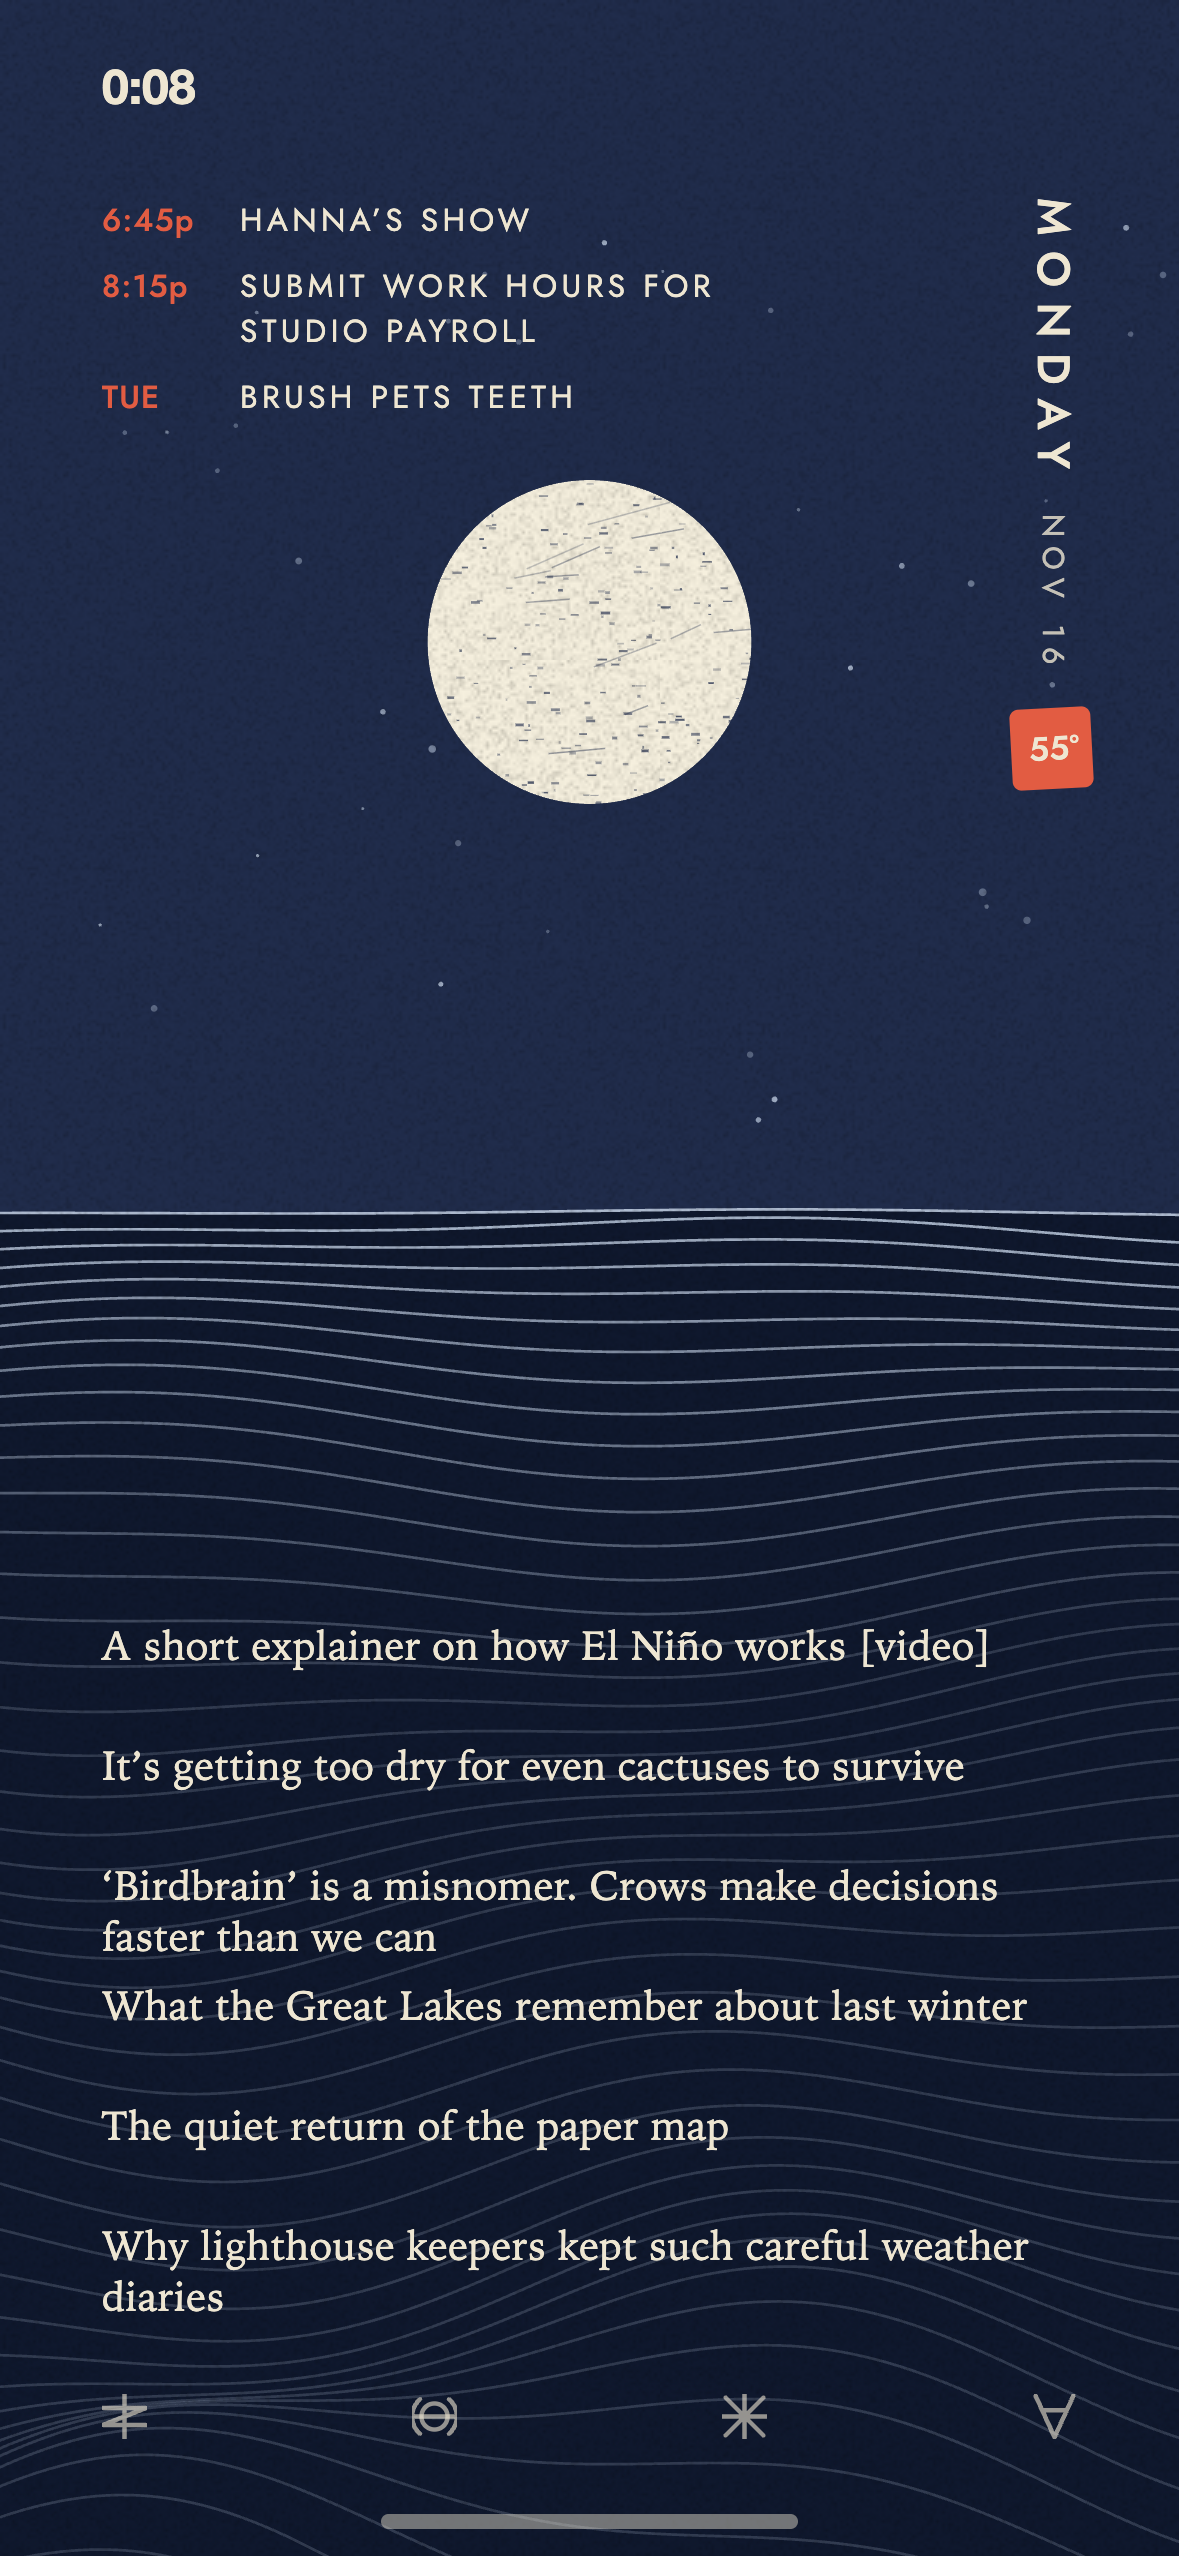
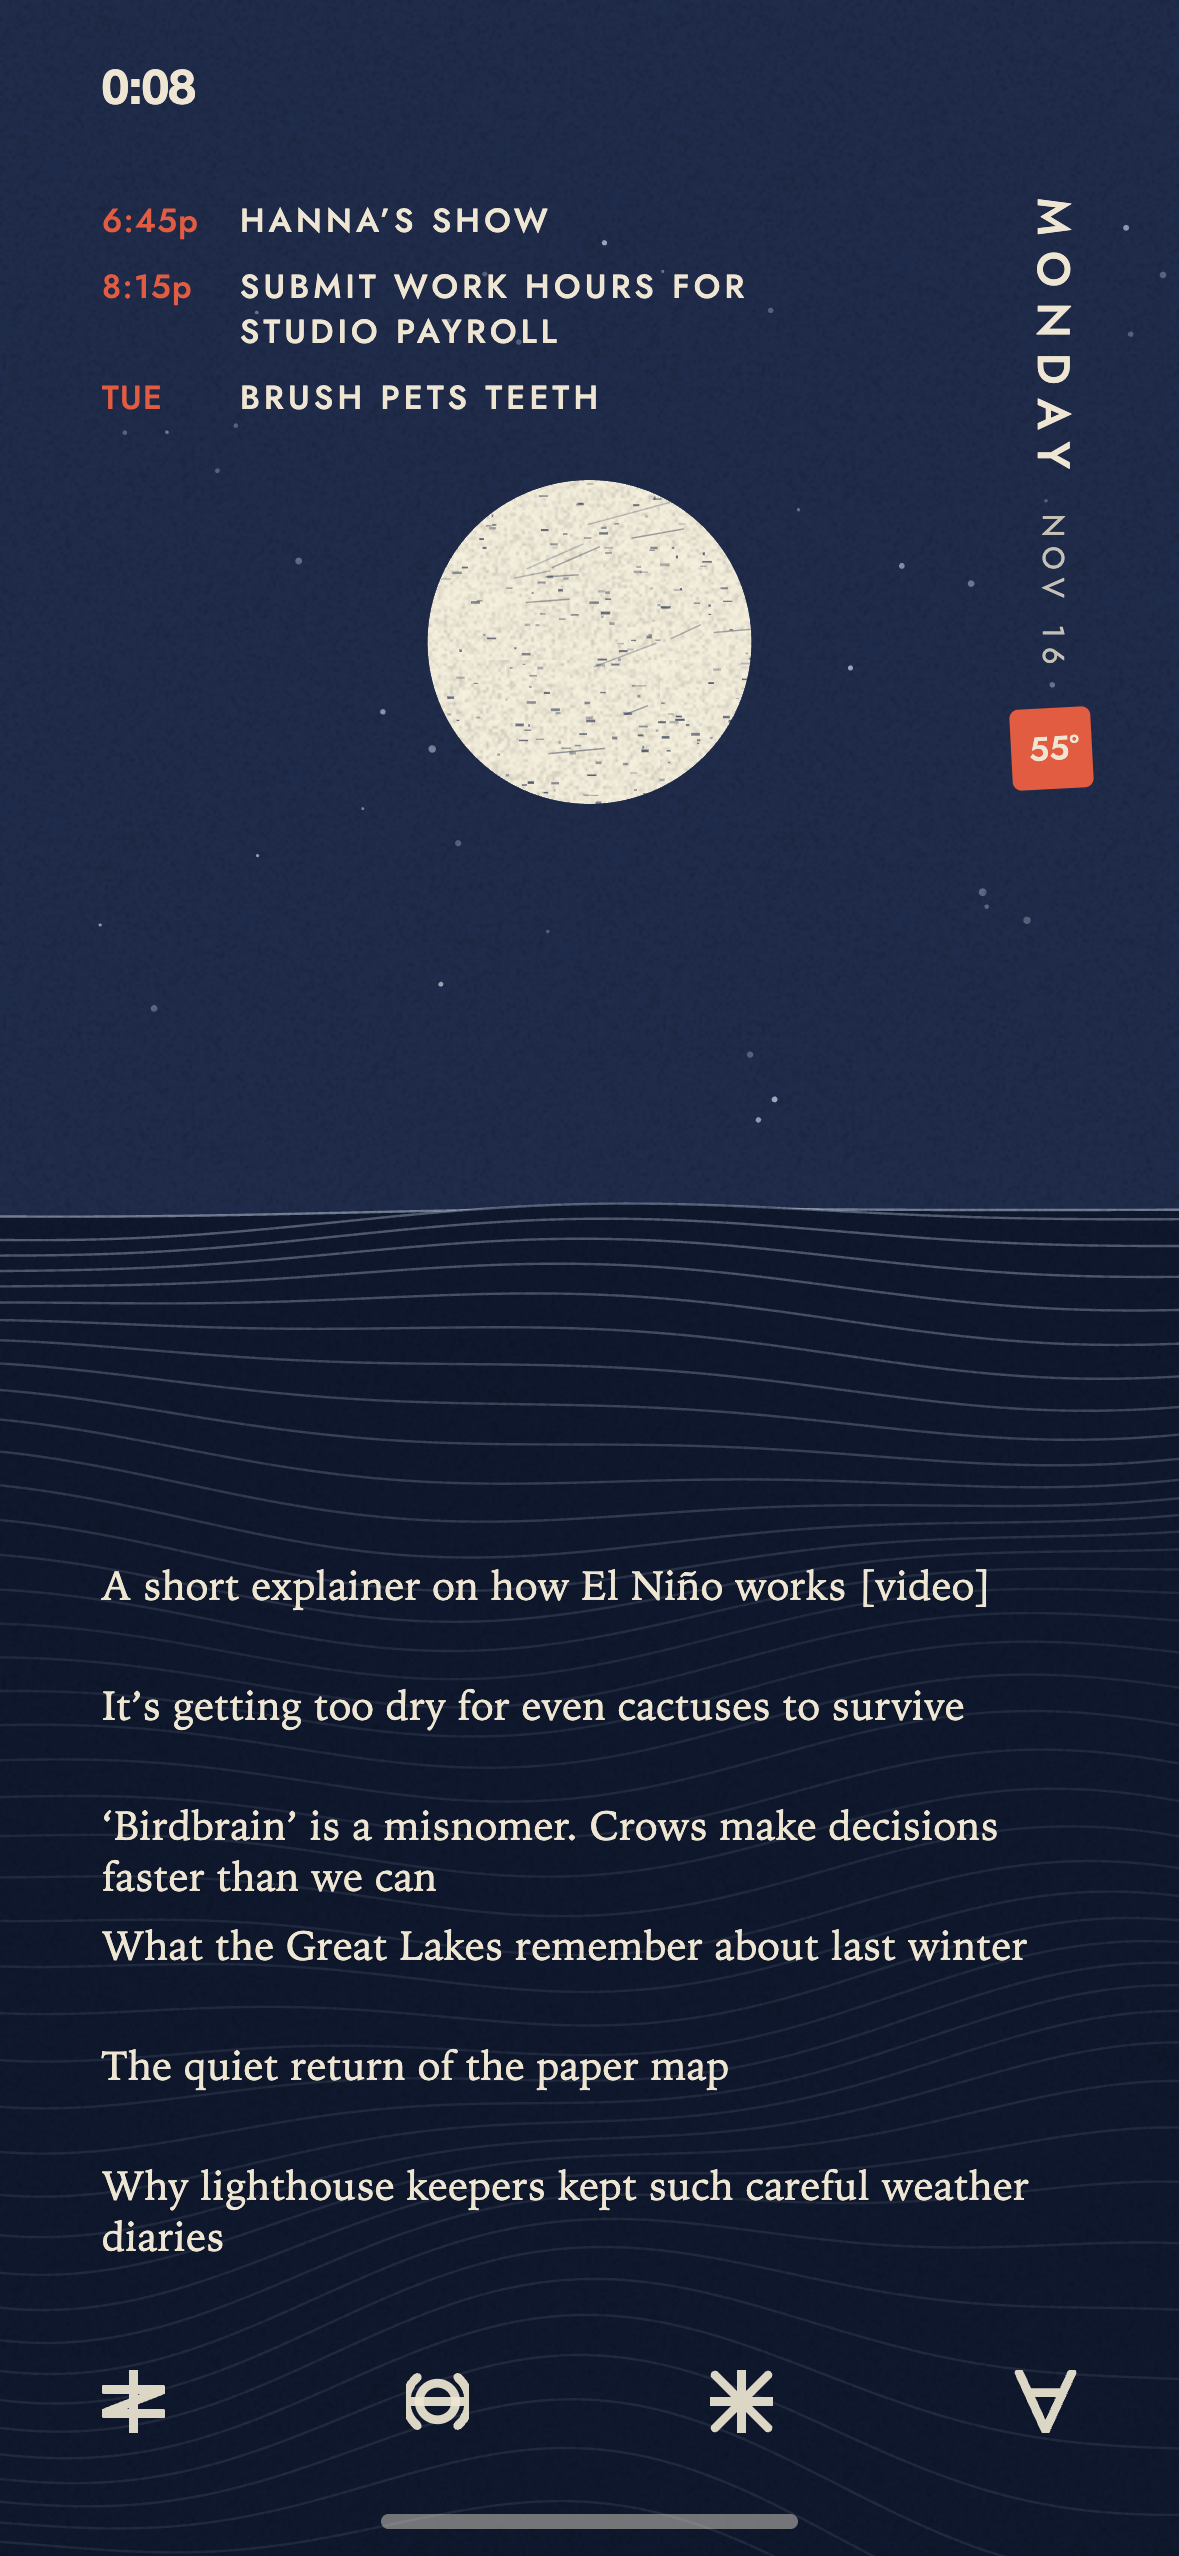
[#125] design-ideas/v10-simplify: bolder marks and events, titles up, softer rolling waves, lighter precipitation below the events

diff --git a/design-ideas/v10-simplify/index.html b/design-ideas/v10-simplify/index.html
@@ -29,7 +29,7 @@
   .clock { left: 34px; top: 19px; font: 600 16px -apple-system, "Helvetica Neue", sans-serif; }
 
   /* the next three events, small, at the top left: the time in red, the title in ink */
-  .events { left: 34px; top: 66px; width: 250px; margin: 0; padding: 0; list-style: none; font: 400 10.5px/15px "Jost", sans-serif; letter-spacing: .14em; text-transform: uppercase; }
+  .events { left: 34px; top: 66px; width: 250px; margin: 0; padding: 0; list-style: none; font: 500 11px/15px "Jost", sans-serif; letter-spacing: .13em; text-transform: uppercase; }
   .events li { display: grid; grid-template-columns: 46px 1fr; margin-bottom: 7px; }
   .events time { font-weight: 500; letter-spacing: .04em; text-transform: none; color: rgb(var(--red)); }
 
@@ -40,10 +40,10 @@
           display: flex; align-items: center; justify-content: center; font: 500 11px/1 "Jost", sans-serif; letter-spacing: .02em; padding-left: 2px; }
 
   /* on the sea: the article titles, then four small marks for the controls */
-  .feed { left: 34px; top: 540px; width: 325px; margin: 0; padding: 0; list-style: none; color: rgb(var(--cream)); }
+  .feed { left: 34px; top: 520px; width: 325px; margin: 0; padding: 0; list-style: none; color: rgb(var(--cream)); }
   .feed li { height: 40px; font: 400 13.5px/17px "Iowan Old Style", "Charter", ui-serif, Georgia, serif; letter-spacing: .01em; }
-  .marks { left: 34px; top: 798px; width: 325px; display: flex; justify-content: space-between; }
-  .marks svg { width: 15px; height: 15px; fill: none; stroke: rgba(var(--cream), .6); stroke-width: .1; stroke-linecap: round; stroke-linejoin: round; overflow: visible; }
+  .marks { left: 34px; top: 790px; width: 325px; display: flex; justify-content: space-between; }
+  .marks svg { width: 21px; height: 21px; fill: none; stroke: rgba(var(--cream), .92); stroke-width: .14; stroke-linecap: round; stroke-linejoin: round; overflow: visible; }
   body.nobtn .marks { display: none; }
   .home { left: 127px; top: 838px; width: 139px; height: 5px; border-radius: 3px; background: rgba(var(--cream), .45); }
 
@@ -202,13 +202,16 @@ function draw(t) {
       ctx.fillStyle = col(look.night ? "200,210,226" : "246,242,232", .9 * state.clouds); ctx.beginPath(); ctx.roundRect(x0, cy + i * 11, w, 8, 4); ctx.fill();
     }
   }
+  /* rain and snow begin under the events (y 150), fading in so nothing starts at a hard edge, and are light enough not to pull the eye */
+  const WET = 150;
   if (state.rain) for (const p of bits.rain) {
-    const f = (p.y + t * p.sp) % 1, px = p.x * (W + 120) - 40 - f * 60, py = -130 + f * (HZ + 150);
-    ctx.strokeStyle = col("34,42,62", .62); ctx.lineWidth = .8; ctx.beginPath(); ctx.moveTo(px, py); ctx.lineTo(px - p.len * .24, py + p.len); ctx.stroke();
+    const f = (p.y + t * p.sp) % 1, len = p.len * .7, px = p.x * (W + 100) - 30 - f * 50, py = WET + f * (HZ - WET), g = ctx.createLinearGradient(0, py, 0, py + len);
+    g.addColorStop(0, col("34,42,62", 0)); g.addColorStop(.5, col("34,42,62", .34 * Math.min(1, f * 5))); g.addColorStop(1, col("34,42,62", .34 * Math.min(1, f * 5)));
+    ctx.strokeStyle = g; ctx.lineWidth = .8; ctx.beginPath(); ctx.moveTo(px, py); ctx.lineTo(px - len * .24, py + len); ctx.stroke();
   }
   if (state.snow) for (const p of bits.snow) {
-    const f = (p.y + t * p.sp) % 1, px = p.x * W + Math.sin(t * .5 + p.ph) * 6, py = -6 + f * (HZ + 16);
-    ctx.fillStyle = col("255,255,252", 1); ctx.beginPath(); ctx.arc(px, py, p.r * 1.25, 0, TAU); ctx.fill();
+    const f = (p.y + t * p.sp) % 1, px = p.x * W + Math.sin(t * .5 + p.ph) * 6, py = WET + f * (HZ - WET + 10);
+    ctx.fillStyle = col("255,255,252", .6 * Math.min(1, f * 7)); ctx.beginPath(); ctx.arc(px, py, p.r * 1.25, 0, TAU); ctx.fill();
   }
   ctx.restore();
 
@@ -216,14 +219,15 @@ function draw(t) {
           The lines fade toward the bottom, where the words are ---- */
   const N = 46;
   for (let k = 0; k < N; k++) {
-    const d = k / (N - 1), base = HZ + Math.pow(d, 1.2) * (H - HZ + 40), amp = k ? 6 + 36 * d : 1.5;
-    const y = x => base + amp * (.6 * Math.sin(x * .011 + k * .21 + t * .11 + 1.3 * Math.sin(k * .13)) + .3 * Math.sin(x * .023 - k * .17 - t * .08) + .3 * Math.sin(x * .0052 + k * .4));
+    const d = k / (N - 1), roll = k ? (1.2 + 3.2 * d) * Math.sin(t * .9 - k * .42) : 0;                   // each line rises and falls a moment after the one behind it, so swells roll toward the viewer
+    const base = HZ + Math.pow(d, 1.2) * (H - HZ + 40) + roll, amp = k ? 6 + 36 * d : 1.5;
+    const y = x => base + amp * (.6 * Math.sin(x * .011 + k * .21 + t * .42 + 1.3 * Math.sin(k * .13)) + .3 * Math.sin(x * .023 - k * .17 - t * .3) + .3 * Math.sin(x * .0052 + k * .4 + t * .12));
     ctx.beginPath(); ctx.moveTo(-4, y(-4));
     for (let x = 0; x <= W + 4; x += 4) ctx.lineTo(x, y(x));
     ctx.lineTo(W + 4, H + 4); ctx.lineTo(-4, H + 4); ctx.closePath(); ctx.fillStyle = col(sea); ctx.fill();
     ctx.beginPath(); ctx.moveTo(-4, y(-4));
     for (let x = 0; x <= W + 4; x += 4) ctx.lineTo(x, y(x));
-    ctx.lineWidth = .9; ctx.strokeStyle = col(line, k ? Math.max(.2, .9 - d * 1.9) : .9); ctx.stroke();
+    ctx.lineWidth = .8; ctx.strokeStyle = col(line, k ? Math.max(.1, .42 - d * .9) : .55); ctx.stroke();
   }
 
   /* paper grain over the whole print */

diff --git a/design-ideas/v10-simplify/README.md b/design-ideas/v10-simplify/README.md
@@ -17,6 +17,14 @@ Open `index.html`. Address switches: `?state=<id>` (the same twelve ids as the o
   - at the bottom, four small pale marks for settings, list, saved and all publications.
 - **Colours:** paper, indigo, ink, and one red.
 
+## Changes after the first pass (2026-11-18, at the user's request; these supersede the description above where they differ)
+
+- The four marks at the bottom are larger (21 points), bolder and nearly full cream.
+- The article titles start 20 points higher (y 520).
+- The wave lines are much fainter, and they move as waves: each line rises and falls a moment after the one behind it, so swells roll toward the viewer, and the crests travel sideways faster than before.
+- Rain and snow begin under the events (y 150), fading in, and are far more see-through (rain about a third, snow about six tenths).
+- The events are in the medium weight, a touch larger.
+
 ## Left out on purpose (it is the simplified version)
 
 Wind, cloud cover, rise and set times, the moon's lit share as a number, the place name, button names, title numbers, any frame, rule or meter. The sky itself says whether it is clear, cloudy, raining or snowing.

diff --git a/tasks/0125-design-ideas-v10-simplify-bolder-buttons.md b/tasks/0125-design-ideas-v10-simplify-bolder-buttons.md
@@ -1,0 +1,28 @@
+---
+id: 125
+title: design-ideas/v10-simplify: bolder buttons and events, titles up, softer moving waves, lighter precipitation below the events
+status: review
+owner: lead
+depends_on: []
+created: 2026-11-19T02:28:58Z
+updated: 2026-11-19T02:29:50Z
+---
+
+## Goal
+
+
+## Acceptance criteria
+
+
+## Relevant files
+
+
+## What's been tried
+
+
+## Log
+
+- 2026-11-19T02:28:58Z [lead] created (todo)
+- 2026-11-19T02:28:58Z [lead] status: todo → in-progress — claimed by lead
+- 2026-11-19T02:29:50Z [lead] All seven changes applied. 12 stills re-rendered; rain, snow and mid-day at t=19 and t=20 viewed; README, notes, thumbs updated; node --check passes.
+- 2026-11-19T02:29:50Z [lead] status: in-progress → review

diff --git a/memory/notes/2026-11-16-design-ideas.md b/memory/notes/2026-11-16-design-ideas.md
@@ -90,3 +90,5 @@ After calling v8 done the user asked for "a few more designs first" and a clean-
 ## 2026-11-18: v10-simplify
 
 "ok one more - v10 - look at the reference images - make a very simplified japanese art inspired version". First pass built (#124); see its README for what is shown and what was left out on purpose.
+
+Second round on v10 (#125): bolder, larger bottom marks; titles higher; fainter wave lines that roll like waves; rain and snow start below the events and are more see-through; events in the medium weight.
